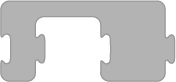
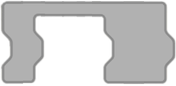
blocks update

Changed region(s): [[0.0284, 0.0, 1.0, 1.0], [0.0, 0.3659, 0.2841, 1.0], [0.0, 0.0488, 0.0852, 0.6585]]

diff --git a/src/app/src/editor/blocks/BlockSpecs.js b/src/app/src/editor/blocks/BlockSpecs.js
@@ -83,22 +83,22 @@ export default class BlockSpecs {
 
     static loadGraphics () {
         BlockSpecs.mic = BlockSpecs.getImageFrom('assets/ui/recordslot', 'svg');
-        BlockSpecs.yellowStart = BlockSpecs.getImageFrom('assets/blocks/start', 'svg');
+        BlockSpecs.yellowStart = BlockSpecs.getImageFrom('assets/blocks/start', 'png');
         BlockSpecs.yellowStartH = BlockSpecs.getImageFrom('assets/blocks/eh/startH');
 
-        BlockSpecs.yellowCmd = BlockSpecs.getImageFrom('assets/blocks/yellowCmd', 'svg');
+        BlockSpecs.yellowCmd = BlockSpecs.getImageFrom('assets/blocks/yellowCmd', 'png');
         BlockSpecs.yellowCmdH = BlockSpecs.getImageFrom('assets/blocks/eh/yellowCmdH');
 
-        BlockSpecs.redEnd = BlockSpecs.getImageFrom('assets/blocks/endshort', 'svg');
+        BlockSpecs.redEnd = BlockSpecs.getImageFrom('assets/blocks/endshort', 'png');
         BlockSpecs.redEndH = BlockSpecs.getImageFrom('assets/blocks/eh/stopH');
 
-        BlockSpecs.orangeCmd = BlockSpecs.getImageFrom('assets/blocks/flow', 'svg');
+        BlockSpecs.orangeCmd = BlockSpecs.getImageFrom('assets/blocks/flow', 'png');
         BlockSpecs.orangeCmdH = BlockSpecs.getImageFrom('assets/blocks/eh/flowH');
 
-        BlockSpecs.limeCmd = BlockSpecs.getImageFrom('assets/blocks/sounds', 'svg');
+        BlockSpecs.limeCmd = BlockSpecs.getImageFrom('assets/blocks/sounds', 'png');
         BlockSpecs.limeCmdH = BlockSpecs.getImageFrom('assets/blocks/eh/soundsH');
 
-        BlockSpecs.pinkCmd = BlockSpecs.getImageFrom('assets/blocks/looks', 'svg');
+        BlockSpecs.pinkCmd = BlockSpecs.getImageFrom('assets/blocks/looks', 'png');
         BlockSpecs.pinkCmdH = BlockSpecs.getImageFrom('assets/blocks/eh/looksH');
 
         BlockSpecs.redEndLong = BlockSpecs.getImageFrom('assets/blocks/endlong', 'svg');
@@ -107,7 +107,7 @@ export default class BlockSpecs {
         BlockSpecs.cShape = BlockSpecs.getImageFrom('assets/blocks/repeat');
         BlockSpecs.cShapeH = BlockSpecs.getImageFrom('assets/blocks/eh/repeatH');
 
-        BlockSpecs.blueCmd = BlockSpecs.getImageFrom('assets/blocks/blueCmd', 'svg');
+        BlockSpecs.blueCmd = BlockSpecs.getImageFrom('assets/blocks/blueCmd', 'png');
         BlockSpecs.blueCmdH = BlockSpecs.getImageFrom('assets/blocks/eh/blueCmdH');
 
         BlockSpecs.textfieldimg = BlockSpecs.getImageFrom('assets/misc/Text-01');
@@ -115,9 +115,9 @@ export default class BlockSpecs {
         BlockSpecs.pressbutton = BlockSpecs.getImageFrom('assets/misc/pushbutton-01', 'svg');
         BlockSpecs.pressbuttonSmall = BlockSpecs.getImageFrom('assets/misc/pushbutton', 'svg');
         BlockSpecs.caretrepeat = BlockSpecs.getImageFrom('assets/blocks/caretrepeat');
-        BlockSpecs.cmdS = BlockSpecs.getImageFrom('assets/blocks/shadowCmd', 'svg');
-        BlockSpecs.startS = BlockSpecs.getImageFrom('assets/blocks/shadowStart', 'svg');
-        BlockSpecs.endS = BlockSpecs.getImageFrom('assets/blocks/shadowEndShort', 'svg');
+        BlockSpecs.cmdS = BlockSpecs.getImageFrom('assets/blocks/shadowCmd', 'png');
+        BlockSpecs.startS = BlockSpecs.getImageFrom('assets/blocks/shadowStart', 'png');
+        BlockSpecs.endS = BlockSpecs.getImageFrom('assets/blocks/shadowEndShort', 'png');
         BlockSpecs.endLongS = BlockSpecs.getImageFrom('assets/blocks/shadowEndLong', 'svg');
         BlockSpecs.repeatS = BlockSpecs.getImageFrom('assets/blocks/shadowRepeat');
 
@@ -274,13 +274,13 @@ export default class BlockSpecs {
             'gotopage': ['gotopage', null,
                 BlockSpecs.redEndLong, 'p', '2', BlockSpecs.redEndLongH, null, null, BlockSpecs.endLongS],
             'caretstart': ['caretstart', null,
-                BlockSpecs.getImageFrom('assets/blocks/caretstart', 'svg'), null, null, null, null, null],
+                BlockSpecs.getImageFrom('assets/blocks/caretstart', 'png'), null, null, null, null, null],
             'caretend': ['caretend', null,
-                BlockSpecs.getImageFrom('assets/blocks/caretend', 'svg'), null, null, null, null, null],
+                BlockSpecs.getImageFrom('assets/blocks/caretend', 'png'), null, null, null, null, null],
             'caretrepeat': ['caretrepeat', null,
-                BlockSpecs.getImageFrom('assets/blocks/caretrepeat'), null, null, null, null, null],
+                BlockSpecs.getImageFrom('assets/blocks/caretrepeat', 'png'), null, null, null, null, null],
             'caretcmd': ['caretcmd', null,
-                BlockSpecs.getImageFrom('assets/blocks/caretcmd', 'svg'), null, null, null, null, null]
+                BlockSpecs.getImageFrom('assets/blocks/caretcmd', 'png'), null, null, null, null, null]
 
         };
     }

diff --git a/src/app/src/editor/blocks/Block.js b/src/app/src/editor/blocks/Block.js
@@ -181,7 +181,13 @@ export default class Block {
 
     drawBlockType () {
         var ctx = this.blockshape.getContext('2d');
-        ctx.drawImage(this.image, 0, 0, this.image.width, this.image.height, 0, 0,
+        var x_img =0;
+        var y_img = 0;
+        if (this.blocktype == 'onflag' || this.blocktype == 'ontouch' || this.blocktype == 'onclick' || this.blocktype == 'onmessage') {
+            x_img = 9;
+            y_img = 0;
+        }
+        ctx.drawImage(this.image, 0, 0, this.image.width, this.image.height, x_img, y_img,
             this.image.width * this.scale * window.devicePixelRatio,
             this.image.height * this.scale * window.devicePixelRatio);
         var icnv = document.createElement('canvas');
